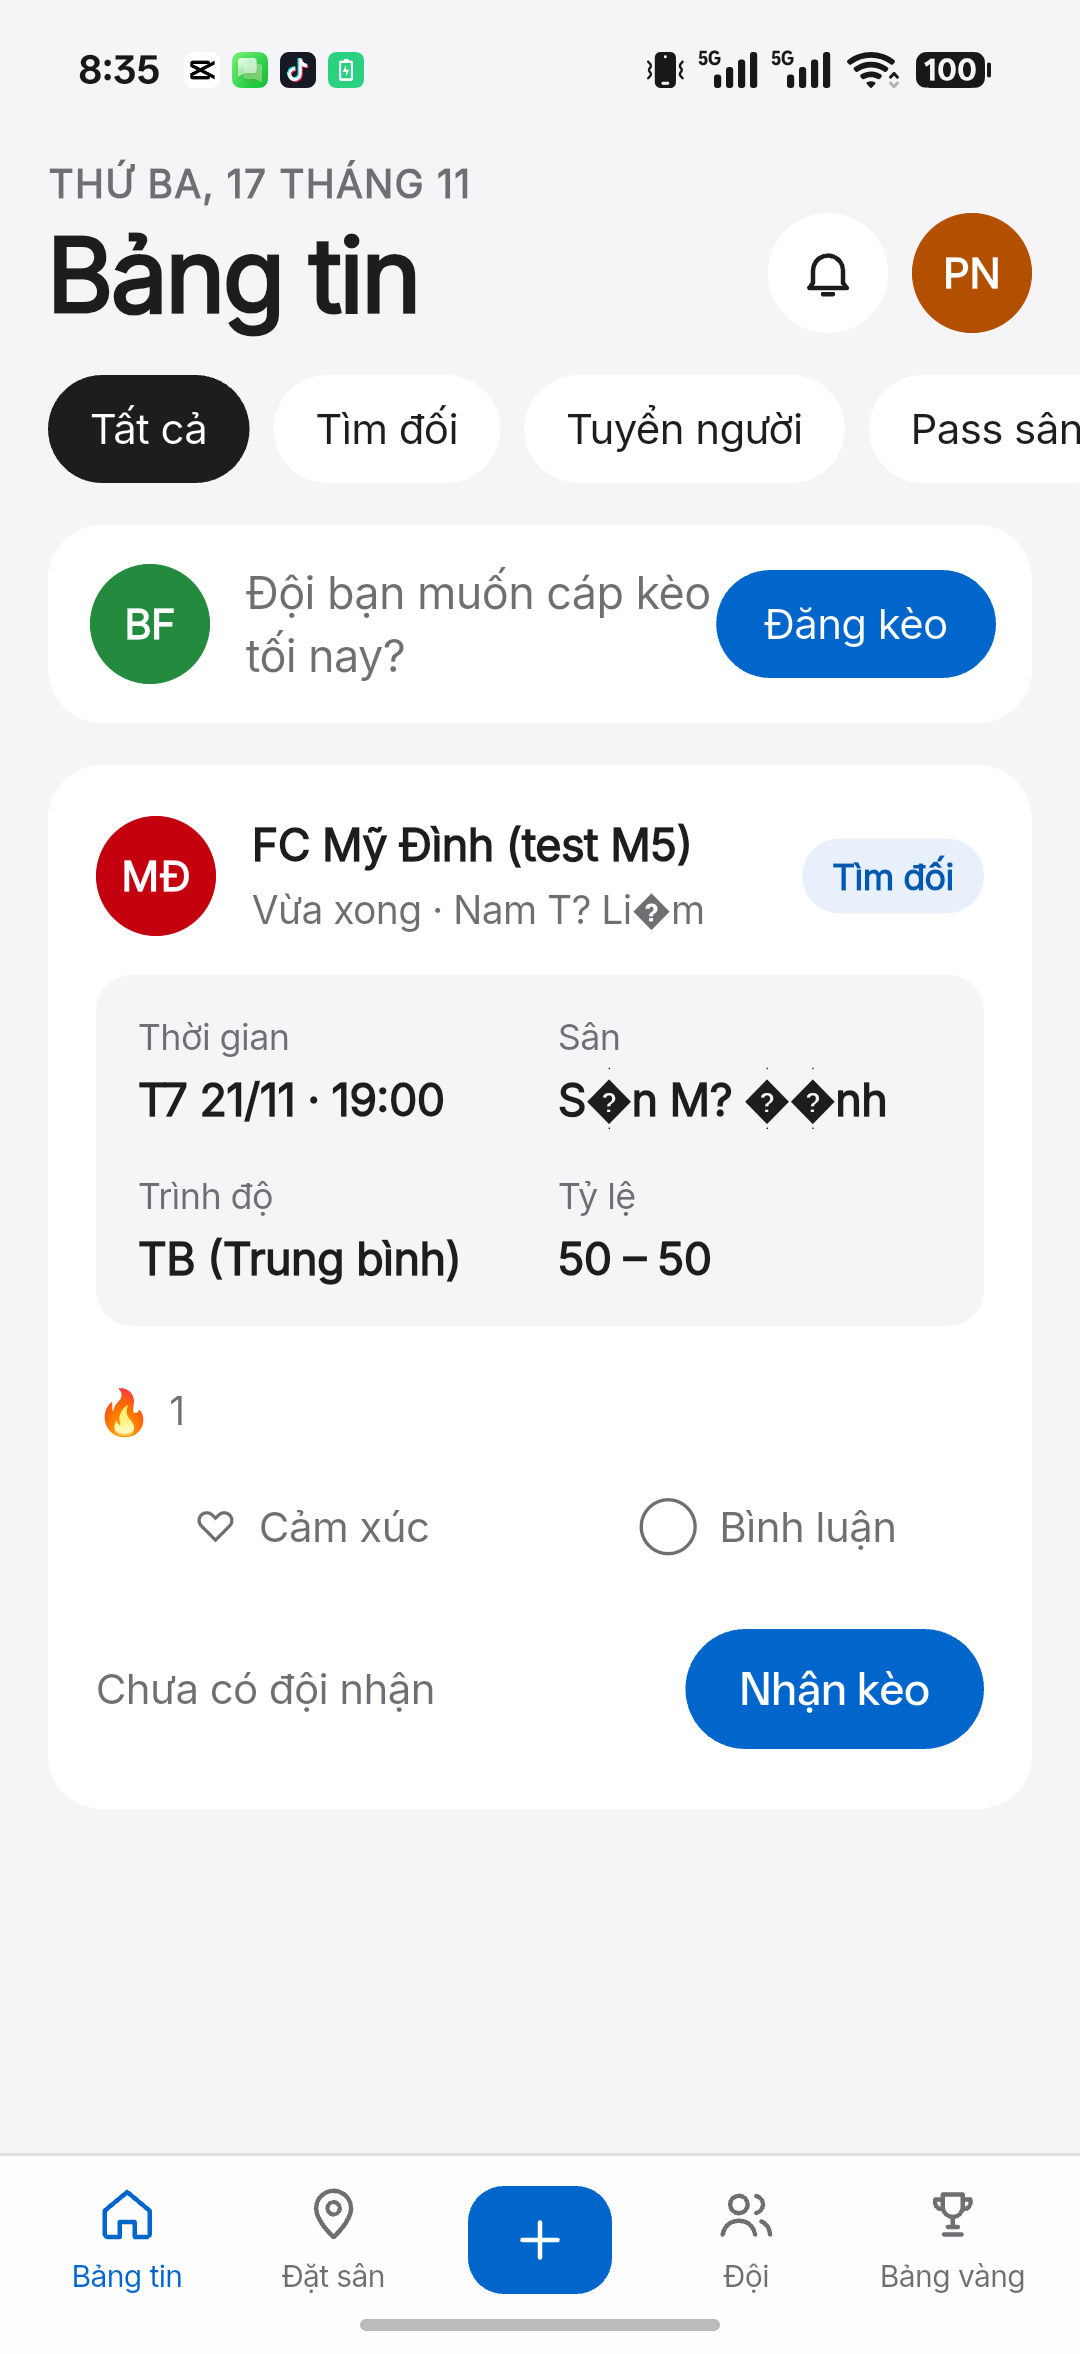
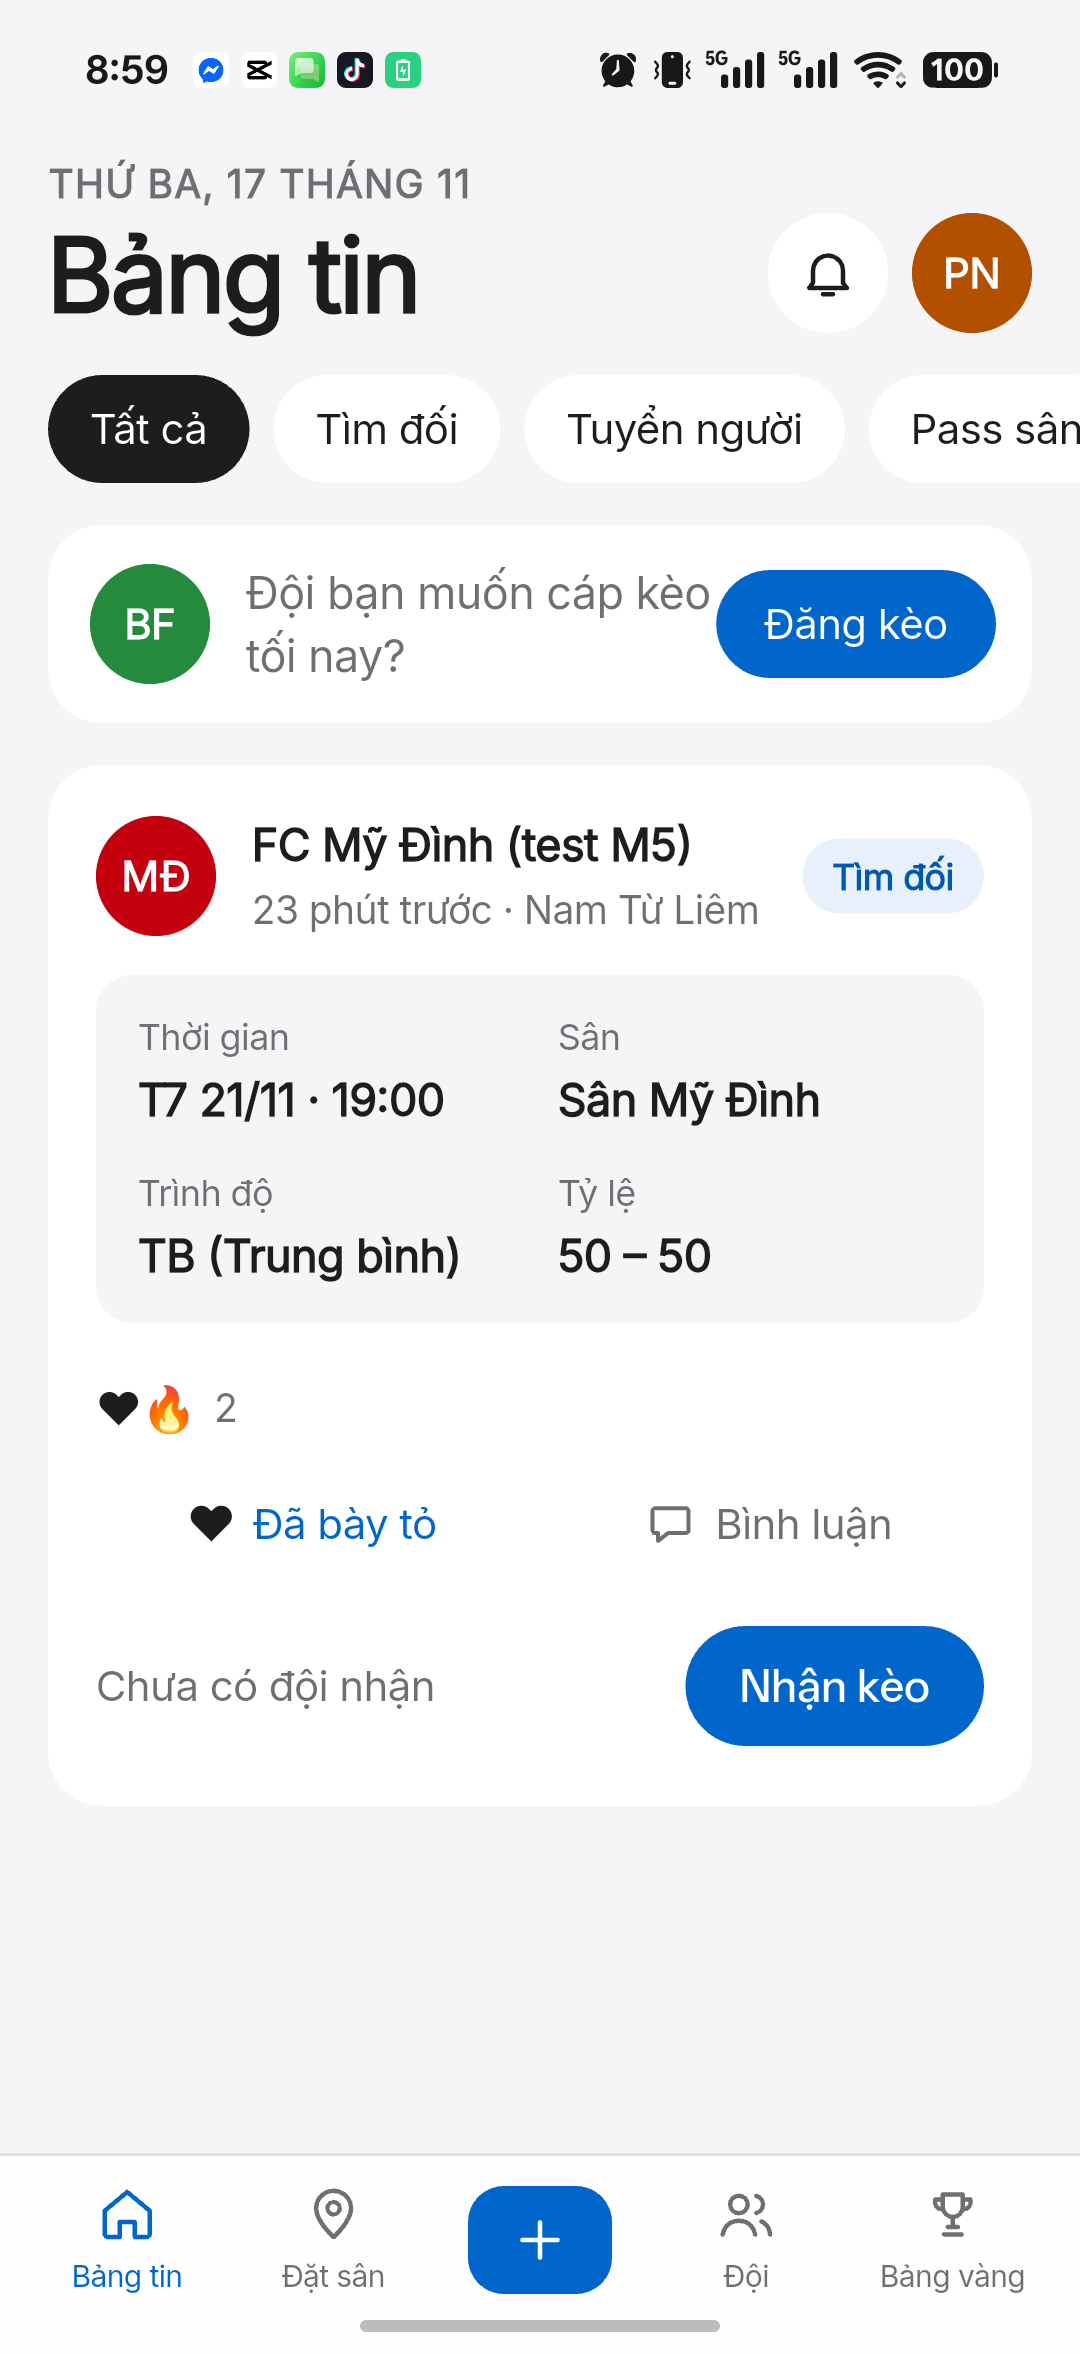
fix(app): nhãn quay lại của chat không xuống dòng; chụp lại màn 01 và 21 có dấu đúng

diff --git a/app/lib/features/chat/presentation/chat_screen.dart b/app/lib/features/chat/presentation/chat_screen.dart
@@ -158,7 +158,7 @@ class _ChatScreenState extends ConsumerState<ChatScreen> {
       body: SafeArea(
         child: Column(
           children: [
-            DetailHeader(backLabel: 'Quay lại', title: opponent?.name ?? 'Nhắn tin'),
+            DetailHeader(backLabel: 'Trận', title: opponent?.name ?? 'Nhắn tin'),
             if (m != null) _PinnedMatch(match: m),
             Expanded(child: _body(myId)),
             _QuickReplies(onTap: _send),
